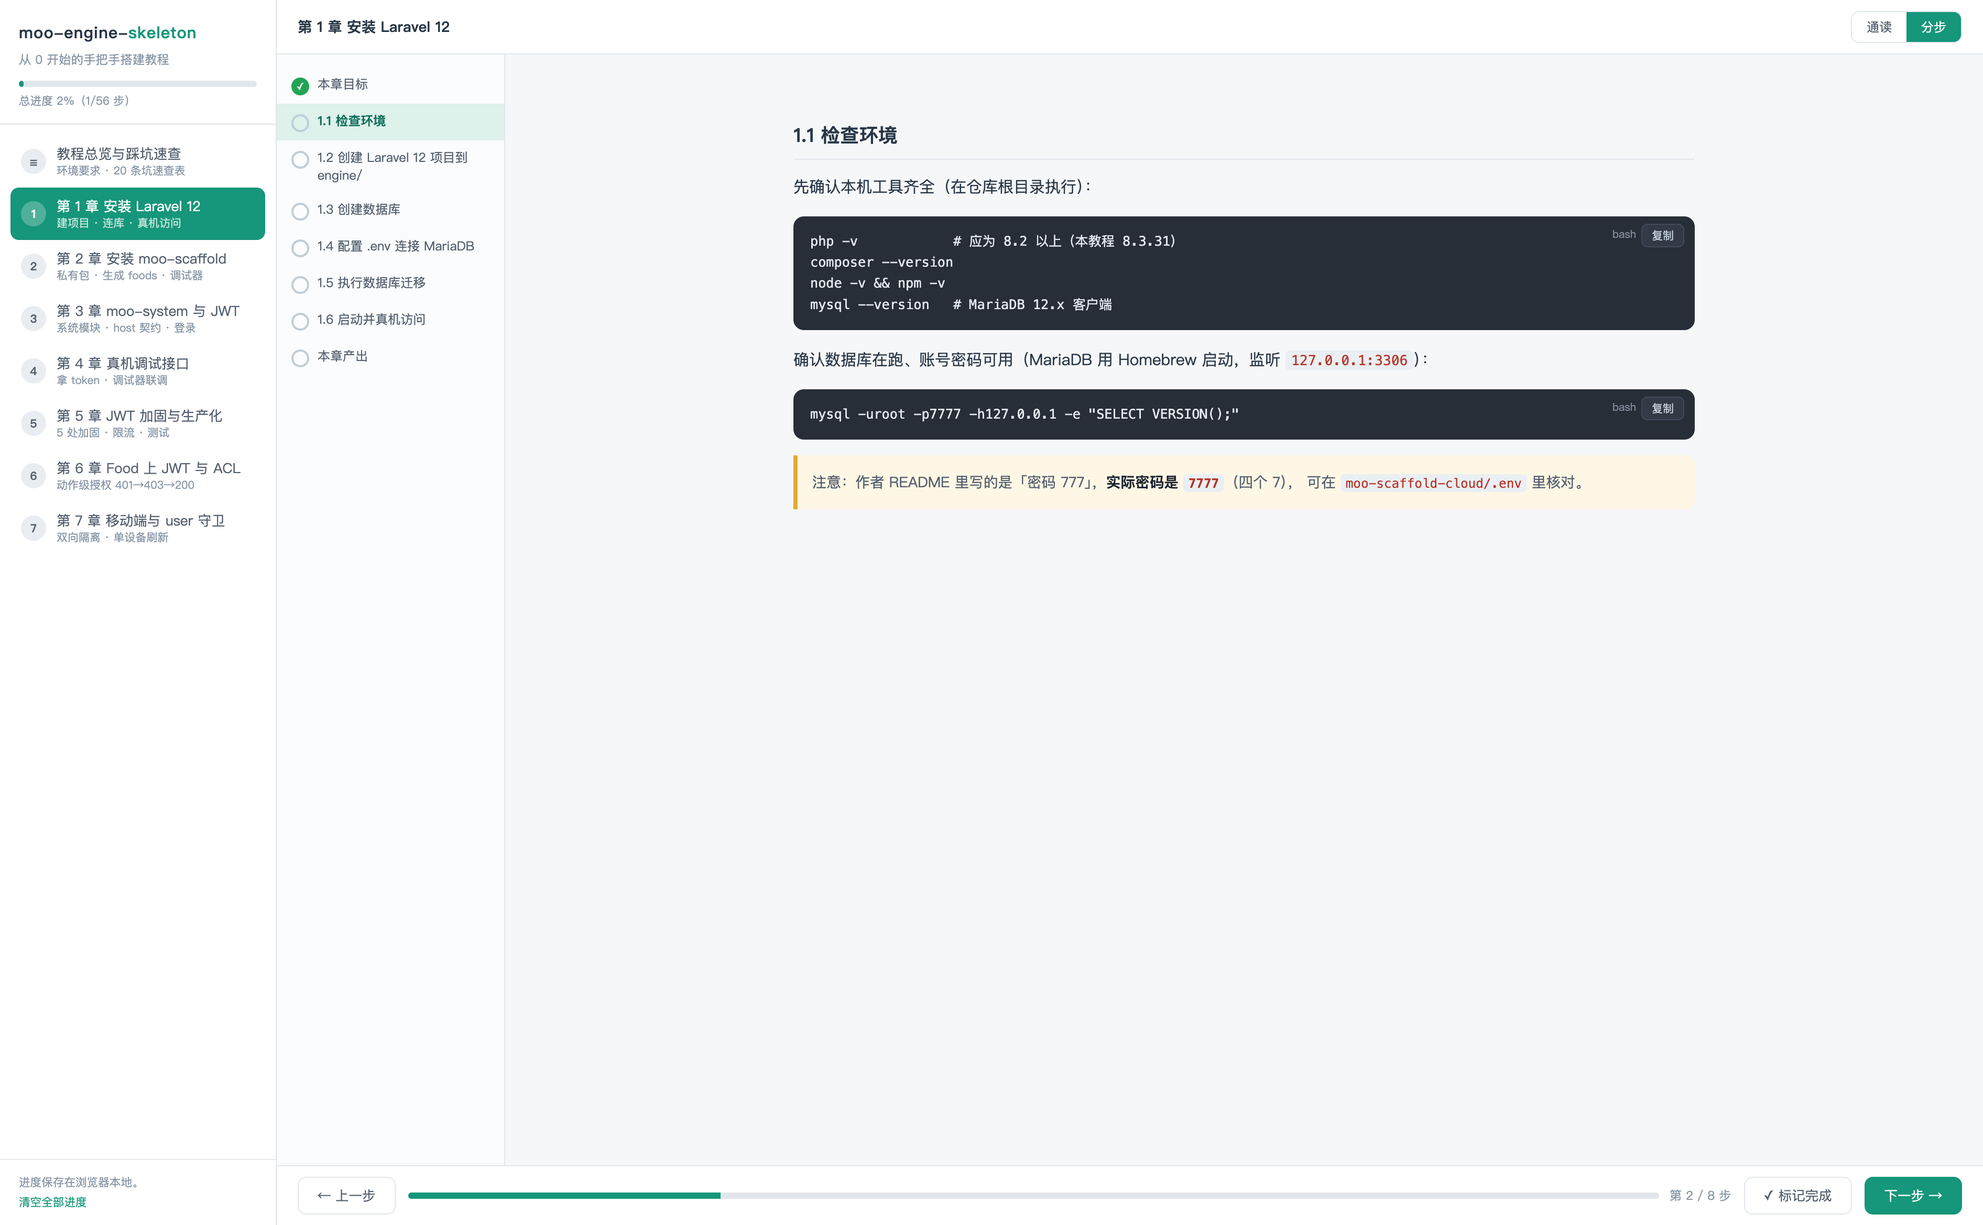
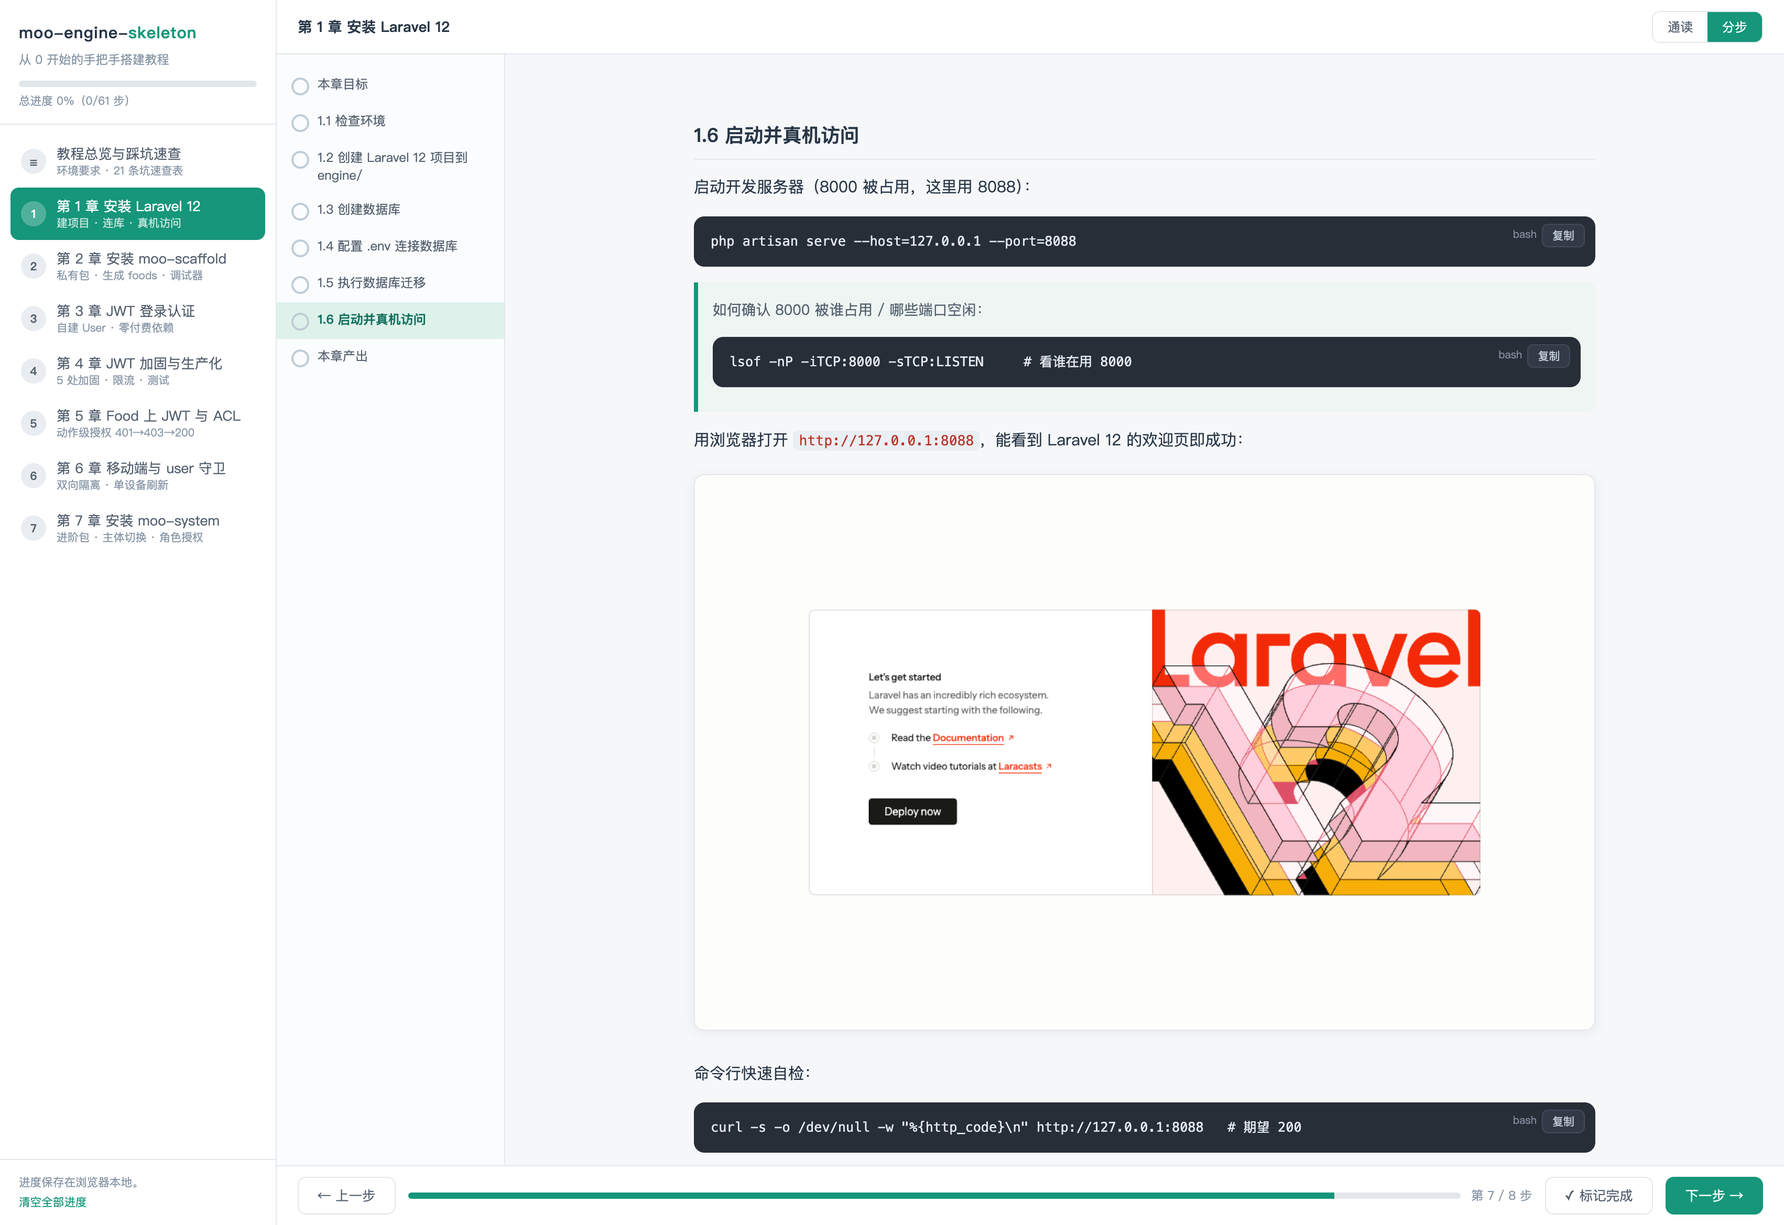
fix(docs): 教程+引导器专项找茬——5 个问题修复
1. 引导器进度残留错配：localStorage key v1→v2——章节重排后步序全变，
   旧进度按章节 id 错配到新内容上会显示错误的完成态，升版强制重置
2. 📦 提示块误标为警告：warn 正则砍掉"必须/勿删/注意"只认 ⚠/坑 #，
   新增 .note 蓝色样式（📦 开头的"最终态/版本提示"块），三色语义分明；
   浏览器审计：ch3/4/7 零误判
3. 第 3 章路由代码段补 use 导入提示（照贴会 Class not found）；
   第 4 章限流段同样补 import 注释
4. 第 4 章真机清单的过期 token 指引补 📦 提示：仓库 makeExpiredToken 是
   Personnel 版，中间态要把主体和 prv 换成 User，否则过不了 lock_subject
5. 重截 00-tutorial-guide.png：旧图侧栏还是重构前的章节列表

diff --git a/docs/index.html b/docs/index.html
@@ -122,6 +122,7 @@ button { font-family: inherit; cursor: pointer; }
   border-radius: 0 8px 8px 0; color: var(--ink-2); font-size: .92em;
 }
 .md blockquote.warn { background: var(--warn-bg); border-left-color: var(--warn-line); }
+.md blockquote.note { background: #eef4fb; border-left-color: #4a90d9; }
 .md blockquote p { margin: .3em 0; }
 .md table { border-collapse: collapse; margin: 1em 0; width: 100%; font-size: .88em; }
 .md th, .md td { border: 1px solid var(--line); padding: 7px 11px; text-align: left; vertical-align: top; }
@@ -200,7 +201,7 @@ const CHAPTERS = [
   { id: 'ch6',    file: '06-移动端分片与-user-守卫.md',   title: '第 6 章 移动端与 user 守卫', sub: '双向隔离 · 单设备刷新' },
   { id: 'ch7',    file: '07-安装-moo-system.md',          title: '第 7 章 安装 moo-system', sub: '进阶包 · 主体切换 · 角色授权' },
 ];
-const LS_KEY = 'moo-skeleton-tutorial-v1';
+const LS_KEY = 'moo-skeleton-tutorial-v2';   // 2026-06 章节重排后步序全变，升版重置旧进度
 
 /* ================= 状态 ================= */
 const state = {
@@ -263,8 +264,10 @@ function renderMd(md) {
       const buf = [];
       while (i < lines.length && /^> ?/.test(lines[i])) { buf.push(lines[i].replace(/^> ?/, '')); i++; }
       const inner = renderMd(buf.join('\n'));
-      const warn = /⚠|坑 #|必须|勿删|注意/.test(buf.join('')) ? ' warn' : '';
-      out.push(`<blockquote class="md${warn}">${inner}</blockquote>`);
+      const text = buf.join('');
+      // 三类引用块：📦=最终态/版本提示（蓝），⚠/坑=警告（黄），其它=普通说明（绿）
+      const cls = text.trimStart().startsWith('📦') ? ' note' : (/⚠|坑 #/.test(text) ? ' warn' : '');
+      out.push(`<blockquote class="md${cls}">${inner}</blockquote>`);
       continue;
     }
     if (/^\|/.test(line) && /^\|? *:?-+/.test(lines[i + 1] || '')) {   // 表格

diff --git a/overview.md b/overview.md
@@ -1,0 +1,187 @@
+# moo-engine-skeleton 研发立项说明
+
+> **一句话介绍**：moo-engine-skeleton 是一套基于 Laravel 12 的企业级后端工程骨架，内置 YAML 驱动的代码生成器（moo-scaffold）、双守卫 JWT 认证、动作级 ACL 授权与可选的系统管理模块（moo-system），并配套一套从零开始、全程真机验证的开源教程，使新项目可以跳过基建期直接进入业务开发。
+
+---
+
+## 一、项目背景与定位
+
+团队多个生产项目（某个内部 Host、某内部语言项目（后端） 等）沉淀出一套高度一致的后端工程实践：入口式 HTTP 分片、YAML 驱动的代码生成、雪花字符串主键、软删全生命周期、JWT 多守卫认证、动作级 ACL。但这套实践分散在各业务仓库中，新项目启动和新人上手都需要反复"考古"。
+
+本项目把这套实践提炼为一个**从 0 开始的标准起点**，达成三个目标：
+
+1. **新项目脚手架**：克隆即得一个可运行、可生成代码、带完整认证授权的后端底座；
+2. **新人教学载体**：`docs/` 下七章教程照实记录每条命令与结果，配零依赖网页引导器，新人可独立复现整个搭建过程；
+3. **生产经验回灌池**：生产项目踩过的坑（JWT 续签丢 claim、孤儿 token、nestedset 事件被静默等 21 项）以代码 + 文档双重形式固化于此，反向校准生产仓库。
+
+**教学路线设计**：第 1~6 章零付费依赖（JWT 用自建最简 User 独立教学），任何人可完整跑通；第 7 章接入商业包 moo-system 为可选进阶——这使骨架同时满足开源教学与商业交付两种场景。
+
+## 二、技术栈与运行环境
+
+| 项 | 选型 | 说明 |
+|---|---|---|
+| 框架 | Laravel 12（PHP 8.3） | 应用本体位于 `engine/` 子目录，与生态内其它项目一致 |
+| 数据库 | MariaDB 12 / MySQL 8 | 实测均可；骨架库名 `moo_skeleton` |
+| 认证 | php-open-source-saver/jwt-auth ^2.8 | tymon/jwt-auth 的维护分支，composer 直接依赖 |
+| 代码生成 | charsen/moo-scaffold（私有，path/vcs 双模式接入） | 仅开发期生效，不是运行时框架 |
+| 系统管理 | charsen/moo-system（私有商业包，可选） | 部门/岗位/人员/角色/授权等 8 个开箱模块 |
+| 主键 | 雪花算法字符串主键 | JSON 输出转字符串，规避 JS 53 位精度溢出 |
+| 测试 | Pest/PHPUnit，21 个 Feature 测试全绿 | 覆盖双守卫认证、ACL、移动端全链路 |
+
+## 三、总体架构
+
+```
+moo-engine-skeleton/
+├── docs/                      # 七章从零教程 + 网页引导器 + 21 条踩坑速查
+├── CLAUDE.md / README.md      # 工程说明
+└── engine/                    # Laravel 12 应用本体
+    ├── app/Admin/             # 后台分片（路由前缀 api/admin）
+    ├── app/Api/               # 移动端分片（路由前缀 app）
+    ├── app/Http/Middleware/   # JWT 三中间件 + 操作日志中间件
+    ├── scaffold/database/     # 表结构 YAML —— 代码生成唯一真相源
+    ├── config/{scaffold,moo-system,auth,jwt,cors}.php
+    └── routes/{admin,api}.php # 含生成器插入标记
+```
+
+**核心架构约定**（与生产项目完全对齐）：
+
+- **入口即边界，无 Service/Repository 层**：逻辑分布在轻量 Controller（编排）、Model（`boot()` 守卫 + trait + ModelFilter）、Resource（输出）三处；
+- **镜像对称的 HTTP 分片**：`Admin/`（后台）与 `Api/`（移动端）各自拥有 Controllers/Requests/Resources，互不渗透；
+- **响应约定无信封**：成功直接返回 Resource，错误为 `{"message": ...}`，HTTP 状态码承载语义（业务错误 522 / 校验 422 / 认证 401 / 越权 403）；
+- **处处软删**：带完整「回收站 / 恢复 / 永久删除」生命周期及每行 `options` 动作列表；
+- **枚举不进 `$casts`**：字段保持裸 int，显式 `Enum::tryFrom()` 转换，规避枚举实例比较陷阱。
+
+## 四、分模块介绍与功能点清单
+
+### 模块 1：应用底座（engine/）
+
+Laravel 12 标准工程加生态约定的固化。
+
+| 功能点 | 介绍 |
+|---|---|
+| `engine/` 子目录工程布局 | 仓库根只放文档与部署脚本，与生态内全部项目统一，私有包相对路径（`../../moo-scaffold`）因此可复用 |
+| `bootstrap/app.php` 横切接线 | Laravel 12 无 Kernel.php，分片中间件挂载、全局异常分发、校验错误 render 重写集中于此 |
+| `AppServiceProvider` 双时机注册 | `register()` 注册 `Route::iResource` 宏（须早于包路由加载）；`boot()` 把 JWT 别名与 admin/user/moo-system 三个中间件组注册到 router（保证 console 内核可见） |
+| `Route::iResource` 宏 | 替代 `Route::resource`：额外提供 PUT 更新、`DELETE /forever/{id}` 永久删除、先于 `/{id}` 注册的 `/trashed` 回收站路由 |
+| 通用 Model Traits | `UsingSnowFlakePrimaryKey`（雪花字符串主键）、`HasOperator`（操作人追踪）、`BaseFilter`（query string → 查询条件） |
+| 私有包双模式接入 | 开发期 path 仓库（同级目录 symlink，源码实时生效）；生产期 `composer.production.json` 切 Gitee VCS + SSH 部署公钥，部署时一行 cp 切换 |
+
+### 模块 2：代码生成器接入（moo-scaffold）
+
+YAML 驱动的开发期代码生成器与开发 UI，骨架已完成全部接入并以 `foods` 表为样例实体。
+
+| 功能点 | 介绍 |
+|---|---|
+| YAML 单一真相源 | `scaffold/database/*.yaml` 定义表结构；`moo:fresh` 编译缓存，所有生成器读缓存产码 |
+| 一键实体生成（`moo:free`） | 一条命令产出一个实体约 15 个文件：Model + Filter + Trait + 六个 FormRequest + Resource + Controller + 路由 + i18n + ACL 注册 + 数据库迁移 + API 文档 |
+| 增量生成（`moo:adder`） | schema 变更后按单 action 增量补码，不覆盖已写业务代码；「再生成区」（Traits/Enums）与「一次生成区」（Model/Controller 等）边界明确 |
+| 内置开发 UI（`/scaffold`） | 可视化数据库设计器、Postman 风格接口调试器（自带后端代理）、路由 + ACL 总览、配置查看；需登录，生产环境禁写 |
+| 开发 UI 账号体系 | `moo:account:add` 管理开发者账号，与业务账号体系隔离 |
+| 样例实体 Food | 完整演示生成产物与业务代码写法：枚举字段、ModelFilter 检索、软删全生命周期、ACL 动作授权 |
+
+### 模块 3：JWT 认证体系（自建 User，双守卫）
+
+零付费依赖的完整 JWT 认证实现，含生产化加固，是骨架的核心教学与交付内容。
+
+| 功能点 | 介绍 |
+|---|---|
+| 自建最简 User 主体 | User 实现 `JWTSubject`，guard claim 动态跟随签发守卫；不依赖任何私有包即可完成认证教学 |
+| admin / user 双守卫 | 后台与移动端各一个 JWT 守卫；token 内嵌 guard claim，**双向隔离**——后台 token 调移动端接口 401，反之亦然 |
+| 三个自定义 JWT 中间件 | `JWTAssignGuard`（指派守卫不强制认证）、`JWTGuardAuth`（校验 token 的 guard claim）、`JWTAuthOrRefresh`（强制认证 + 近过期无感续签，新 token 经 authorization 响应头下发） |
+| 手动登录（不用 attempt） | `Hash::check()` 校验密码并支持自定义前置检查（账号状态等），`Auth::login()` 签发；响应含 user/token/expires_in |
+| 认证全链路接口 | 登录 `authenticate`、当前用户 `me/info`、主动刷新 `refresh`、登出 `logout`，后台与移动端各一套 |
+| persistent_claims 加固 | `config/jwt.php` 固化 `persistent_claims=['guard']`，杜绝续签丢 guard claim 导致的偶发 401（生产实测踩坑回灌） |
+| 黑名单 90 秒宽限 | 续签瞬间旧 token 进黑名单前留 90 秒宽限期，并发在途请求不被误杀 |
+| 滑动续期 | `refresh_iat=true` + ttl 2880 分钟 / refresh_ttl 20160 分钟，活跃用户无感长登录 |
+| refresh 防孤儿 token | `/refresh` 路由不挂 `jwt.auth.refresh` 中间件，避免中间件与控制器各续签一次派生两个有效 token |
+| 单设备语义（移动端） | 移动端 refresh 采用 `(true, false)` 立即拉黑旧 token、无宽限期，实现单设备登录语义 |
+| CORS 配套 | `config/cors.php` 暴露 `Authorization` 响应头，跨域前端才能读到无感续签的新 token |
+| 接口限流 | 后台 300 次/分钟限流，防暴力撞库与异常流量 |
+
+### 模块 4：ACL 动作级授权
+
+控制器动作粒度的权限引擎，host 定义契约、包与自建代码共同消费。
+
+| 功能点 | 介绍 |
+|---|---|
+| Gate `acl_authentication` 契约 | 定义在 host 的 `AuthServiceProvider`，**多态设计**——自建 User 与 moo-system Personnel 通吃，主体切换不动授权代码 |
+| 动作自动鉴权 | 基类 Controller 的 `callAction()` 先 `boot()` 再 `checkAuthorization()`，把 `Class::method` 映射为 snake 风格 ACL key（`substr(md5(key), 8, 16)`）自动鉴权，业务代码零侵入 |
+| 权限复用（transform_methods） | 一个 action 可声明复用另一个 action 的权限，避免权限点爆炸 |
+| User.actions 最小实现 | 自建 User 用一个 JSON 列存权限 key 数组，`is_root` 字面量为超级权限；演示契约的最小可行实现 |
+| 角色制接管（第 7 章） | 接入 moo-system 后无缝切换为 角色-授权 体系，含个人中心 8 个动作的白名单兜底（防零授权角色把自己锁死） |
+| 401→403→200 完整闭环 | 教程以 Food 实体演示无 token、有 token 无权限、授权后三种状态的完整验证路径 |
+
+### 模块 5：移动端分片（Api/）
+
+面向 App / 小程序的独立 HTTP 分片，与后台完全隔离。
+
+| 功能点 | 介绍 |
+|---|---|
+| 独立路由空间 | 前缀 `app`、中间件组 `client`，与后台 `api/admin` 物理隔离 |
+| 永久使用自建 User | 移动端 user 守卫主体**永久**为自建 User（email 登录），即使第 7 章后台切换 Personnel 也不受影响——对齐生产项目 某内部语言项目（后端） 的真实模式 |
+| 移动端认证四接口 | authenticate / me/info / refresh / logout，语义与后台一致、守卫与续签策略独立 |
+| 生成器插入标记 | 路由文件保留 `:insert_code_here:do_not_delete` 标记，moo-scaffold 可直接向移动端分片生成业务接口 |
+
+### 模块 6：系统管理模块（moo-system，进阶/可选）
+
+商业包提供的开箱后台模块，骨架完成全部 host 契约实现与真机联调；不装此包前六章功能完全自洽。
+
+| 功能点 | 介绍 |
+|---|---|
+| 部门管理 Department | 嵌套集树（nestedset），支持 `department/{id}/move` 拖拽调序 |
+| 岗位管理 Position | 岗位字典维护 |
+| 人员管理 Personnel | 第 7 章起的后台 JWT 认证主体（实现 JWTSubject），手机号登录 |
+| 角色与授权 Role / Authorization | 角色制 ACL 编辑器，支持权限矩阵 Excel 导出 |
+| 通知机器人 NotifyRobot | 钉钉/企微类机器人通知通道 |
+| 登录管理 LoginManagement | 登录态与设备管理 |
+| 操作日志 OperationLog | 中间件式操作审计，异步落库（队列） |
+| 个人中心 me* | 个人资料、改密等 8 个白名单动作 |
+| host 契约实现 | `MediaSynchronous` / `Notification` / `BaseActionTrait` / `UploaderTrait` / `SendBlessMessage` / `toLabelValue()` 全局函数等契约在骨架中给出标准实现 |
+| 自检命令 | `php artisan moo-system check` 6 项 host 集成自检全过 |
+| 初始数据 Seeder | 包本身无 seeder，骨架补齐 角色→部门→岗位→人员 全套（含嵌套集树正确构建），`migrate --seed` 即得可登录管理员 |
+| 主体平滑切换 | 后台守卫 User→Personnel 仅改 `auth.php` 一行 + 一个 AuthController，验证了架构的可替换性 |
+
+### 模块 7：文档与教学体系（docs/）
+
+原则「每一步都写进教程」的产物，本身即是交付物。
+
+| 功能点 | 介绍 |
+|---|---|
+| 七章从零教程 | 安装 Laravel → 接入 scaffold → JWT 自建用户 → JWT 生产化 → ACL 闭环 → 移动端分片 → moo-system，每章照实记录命令与真机结果 |
+| 零依赖网页引导器 | `docs/index.html` 单文件（内联全部 CSS/JS），支持分步模式、进度记忆、代码一键复制，`php -S` 即可启动 |
+| 21 条踩坑速查表 | 现象 → 原因 → 解决 → 所在章节，全部来自真实搭建与生产回灌（JWT 丢 claim、孤儿 token、nestedset 静默、枚举比较死代码等） |
+| 中间态代码内联 | 仓库代码为第 7 章最终态，第 3~5 章的中间态代码（User 版 AuthController 等）以完整代码内联在章节文档中，保证任意章节可独立复现 |
+| cleanroom 验证 | 教程经过"从零重做七章"的洁净环境终极验证，修复全部卡点后定稿 |
+
+### 模块 8：测试与质量保障
+
+原则「用真机测试」的固化。
+
+| 功能点 | 介绍 |
+|---|---|
+| 21 个 Feature 测试 | `AuthTest`（Personnel 后台认证）、`ApiAuthTest`（User 移动端认证）、`FoodAclTest`（角色制 ACL），`php artisan test` 全绿 |
+| 跨进程行为模拟 | 测试中用 `emptyClaims()` 清空 payload 工厂单例，使同进程测试能复现真实跨进程的续签丢 claim 问题 |
+| MCP 真机验证流程 | 开发约定以浏览器 MCP 驱动 `/scaffold` 接口调试器 + curl + 数据库查询对活服务验证，而非仅靠单测 |
+| 代码规范 | Laravel Pint 统一格式化 |
+
+## 五、交付现状与默认账号
+
+七章全部搭建完成并经真机验证，仓库代码为最终态。
+
+| 账号 | 凭据 | 用途 |
+|---|---|---|
+| 自建用户 | `admin@example.com` / `password` | 第 3~6 章后台 + 永久移动端 |
+| Personnel 管理员 | `13800000000` / `admin888` | 第 7 章起的后台 |
+| Scaffold 开发 UI | `charsen` / `skeleton2026` | `/scaffold` 开发工具登录 |
+
+```bash
+# 启动（在 engine/ 下；多 worker 为接口调试器代理所必需）
+PHP_CLI_SERVER_WORKERS=4 php artisan serve --host=127.0.0.1 --port=8088 --no-reload
+```
+
+## 六、预期收益
+
+- **新项目启动成本**：从"按生产仓库考古搭建底座（数天）"降为"克隆骨架 + 改库名（小时级）"；
+- **新人培养**：七章教程 + 引导器使新人可独立完成从空目录到带认证授权后端的全过程，建立与团队生产代码一致的心智模型；
+- **质量基线**：21 条生产级踩坑以代码形式固化，新项目天然规避；双向回灌机制（骨架 ↔ 生产仓库）持续提升存量项目质量；
+- **商业弹性**：前六章可独立开源引流，第 7 章商业包形成付费转化路径。

diff --git a/docs/04-JWT-加固与生产化.md b/docs/04-JWT-加固与生产化.md
@@ -153,6 +153,9 @@ $exceptions->throttle(fn (Throwable $e) => Limit::perMinute(1000));
 `AppServiceProvider::boot()` 里先定义，再挂进中间件组：
 
 ```php
+// use Illuminate\Cache\RateLimiting\Limit;
+// use Illuminate\Http\Request;
+// use Illuminate\Support\Facades\RateLimiter;
 RateLimiter::for('admin', fn (Request $r) => Limit::perMinute(300)->by($r->user()?->id ?: $r->ip()));
 RateLimiter::for('client', fn (Request $r) => Limit::perMinute(1000)->by($r->user()?->id ?: $r->ip()));
 ```
@@ -287,6 +290,10 @@ php artisan test
 过期 token 没法用 `auth()->login()` 直接造（签完自检就抛异常），手工签一个
 `exp` 在过去、`iat` 在续期窗口内的即可——完整可运行实现见仓库
 `tests/TestCase.php` 的 `makeExpiredToken()`。
+
+> 📦 仓库版的 admin 分支主体是 Personnel（第 7 章最终态）。本章时间点后台主体
+> 还是 User——照抄时把主体查询和 `prv`（`sha1(User::class)`）都换成 User，
+> 否则签出的 token 过不了 `lock_subject` 的模型哈希校验。
 
 ## 已知局限（记录在案，不修）
 

diff --git a/docs/03-JWT-登录认证-自建用户.md b/docs/03-JWT-登录认证-自建用户.md
@@ -239,6 +239,7 @@ class AuthController
 `routes/admin.php` 里挂上（`authenticate`/`logout` 公开；`me`/`refresh` 进登录 group）：
 
 ```php
+// 文件顶部记得：use App\Admin\Controllers\AuthController;
 Route::post('authenticate', [AuthController::class, 'authenticate'])->name('authenticate');
 Route::post('logout', [AuthController::class, 'logout'])->name('logout');
 
